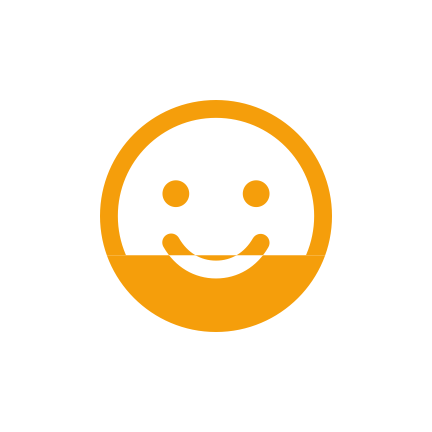
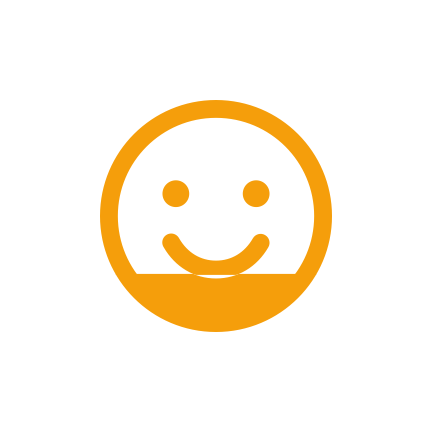
Fill the smiley 20 percent and close the waterline seam
The pale line across the waterline was not a border. The outlined and filled smileys were clipped to rectangles that merely met, so each edge was antialiased on its own and the two half-covered pixels added up to less than one, leaving a gap of up to a quarter of the colour. The lower shape now starts a pixel higher, which puts solid colour under the seam.

The same pair of abutting windows draws the smiley in the app, so BigSmiley gets the matching overlap.

Changed region(s): [[0.2708, 0.5718, 0.7222, 0.662]]

diff --git a/scripts/generateIcons.ts b/scripts/generateIcons.ts
@@ -33,7 +33,7 @@ interface PngChunk {
 type Rgb = readonly [number, number, number];
 
 // How full the smiley is. This is the value the checked-in icons were generated with.
-const defaultFillPercentage = 30;
+const defaultFillPercentage = 20;
 
 // Both paths have to stay identical to the ones in src/iconsRow/SmileyIcon.tsx, src/iconsRow/SmileyOutlineIcon.tsx and src/smiley/BigSmiley.tsx, so that the icon and the app draw the same smiley.
 const filledSmiley =
@@ -236,10 +236,13 @@ const buildSvg = (
 ): string => {
   const scale = glyphDiameter / phosphorGlyphDiameter;
   const offset = size / 2 - phosphorCenter * scale;
+  // Two shapes that merely meet at the waterline leave a pale seam, because each one is antialiased against the clip edge on its own and the two half-covered edges never add up to a whole pixel. Letting the lower shape start one pixel higher hides the seam under solid colour.
+  const overlap = 1 / scale;
+  const belowWaterlineY = waterlineY - overlap;
   return `<svg xmlns="http://www.w3.org/2000/svg" width="${size}" height="${size}" viewBox="0 0 ${size} ${size}">
   <defs>
     <clipPath id="aboveWaterline"><rect x="0" y="0" width="${phosphorViewBoxSize}" height="${round(waterlineY)}"/></clipPath>
-    <clipPath id="belowWaterline"><rect x="0" y="${round(waterlineY)}" width="${phosphorViewBoxSize}" height="${round(phosphorViewBoxSize - waterlineY)}"/></clipPath>
+    <clipPath id="belowWaterline"><rect x="0" y="${round(belowWaterlineY)}" width="${phosphorViewBoxSize}" height="${round(phosphorViewBoxSize - belowWaterlineY)}"/></clipPath>
   </defs>
   <rect width="${size}" height="${size}" fill="#ffffff"/>
   <g transform="translate(${round(offset)} ${round(offset)}) scale(${round(scale)})" fill="#000000">

diff --git a/src/smiley/BigSmiley.tsx b/src/smiley/BigSmiley.tsx
@@ -15,6 +15,9 @@ const waterlineTransitionInMilliseconds = 400;
 const interiorTopY = 40;
 const interiorBottomY = 216;
 
+// Two windows that merely meet at the waterline leave a pale seam, because each edge is antialiased on its own and the two half-covered pixels never add up to a whole one. Letting the lower window reach a little higher hides the seam under solid colour.
+const waterlineOverlap = 1;
+
 /** The same two Phosphor Smiley weights that SmileyIcon and SmileyOutlineIcon draw. https://phosphoricons.com/?q=smiley */
 const filledSmiley =
   "M128,24A104,104,0,1,0,232,128,104.11,104.11,0,0,0,128,24ZM80,108a12,12,0,1,1,12,12A12,12,0,0,1,80,108Zm96,0a12,12,0,1,1-12-12A12,12,0,0,1,176,108Zm-1.07,48c-10.29,17.79-27.4,28-46.93,28s-36.63-10.2-46.92-28a8,8,0,1,1,13.84-8c7.47,12.91,19.21,20,33.08,20s25.61-7.1,33.07-20a8,8,0,0,1,13.86,8Z";
@@ -73,7 +76,7 @@ export const BigSmiley = (props: Props) => {
           windowStyle,
           {
             bottom: 0,
-            height: `${100 - waterlinePercentage}%`,
+            height: `${100 - waterlinePercentage + (100 * waterlineOverlap) / viewBoxSize}%`,
             transitionDuration: waterlineTransitionInMilliseconds,
             transitionProperty: "height",
           },
